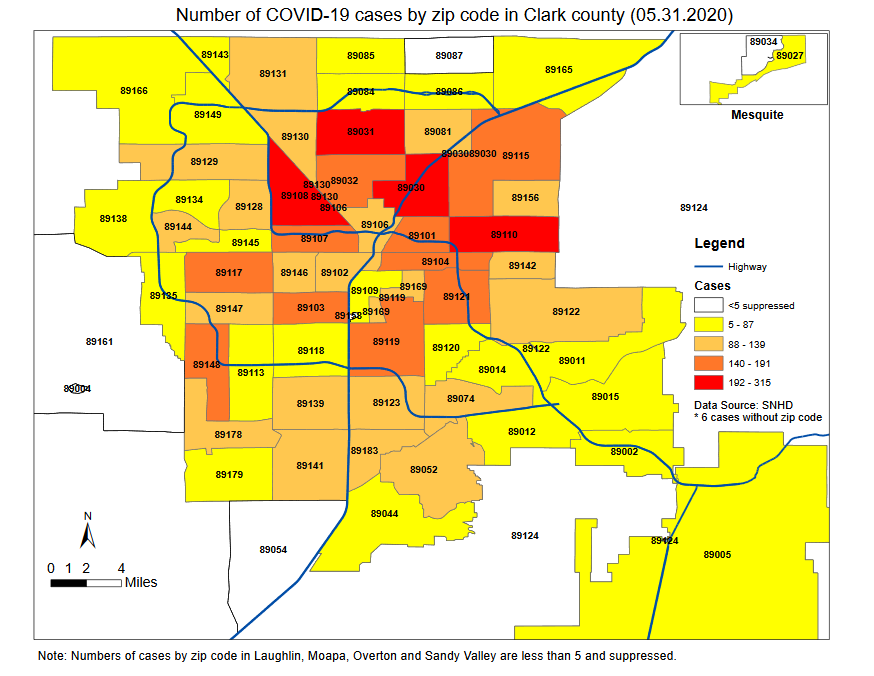
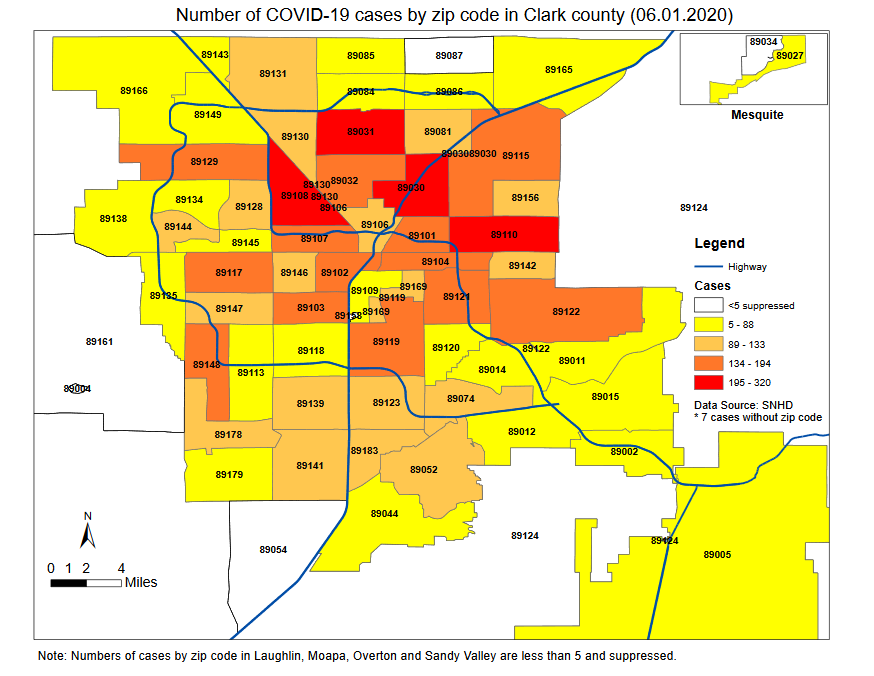
moa stats

diff --git a/src/pages/nevada.js b/src/pages/nevada.js
@@ -100,6 +100,7 @@ class NevadaPage extends Component {
 				'5/29/20',
 				'5/30/20',
 				'5/31/20',
+				'6/01/20',
 			],
 			datasets: [
 				{
@@ -194,6 +195,7 @@ class NevadaPage extends Component {
 						8495,
 						8593,
 						8688,
+						8830,
 					],
 					fill: false, // Don't fill area under the line
 					backgroundColor: '#933A16', // Line color
@@ -291,6 +293,7 @@ class NevadaPage extends Component {
 				'5/29/20',
 				'5/30/20',
 				'5/31/20',
+				'6/01/20',
 			],
 			datasets: [
 				{
@@ -390,6 +393,7 @@ class NevadaPage extends Component {
 						123,
 						119,
 						115,
+						124,
 					],
 				},
 				{
@@ -485,6 +489,7 @@ class NevadaPage extends Component {
 						145,
 						98,
 						95,
+						142,
 					],
 					fill: false, // Don't fill area under the line
 					backgroundColor: '#933A16', // Bar color
@@ -582,6 +587,7 @@ class NevadaPage extends Component {
 				'5/29/20',
 				'5/30/20',
 				'5/31/20',
+				'6/01/20',
 			],
 			datasets: [
 				{
@@ -659,23 +665,24 @@ class NevadaPage extends Component {
 						348,
 						354,
 						358,
-						367,
+						368,
 						369,
-						376,
-						383,
-						390,
-						392,
-						396,
-						399,
-						402,
-						407,
-						409,
-						411,
-						415,
-						419,
-						421,
-						421,
-						421,
+						375,
+						382,
+						389,
+						391,
+						395,
+						398,
+						401,
+						406,
+						408,
+						410,
+						413,
+						417,
+						420,
+						420,
+						420,
+						420,
 					],
 					backgroundColor: 'maroon',
 				},
@@ -761,6 +768,7 @@ class NevadaPage extends Component {
 				'5/29/20',
 				'5/30/20',
 				'5/31/20',
+				'6/01/20',
 			],
 			datasets: [
 				{
@@ -833,7 +841,7 @@ class NevadaPage extends Component {
 						5,
 						6,
 						6,
-						6,
+						5,
 						6,
 						6,
 						5,
@@ -848,6 +856,7 @@ class NevadaPage extends Component {
 						3,
 						2,
 						2,
+						1,
 					],
 				},
 				{
@@ -914,9 +923,9 @@ class NevadaPage extends Component {
 						7,
 						6,
 						4,
-						9,
-						2,
-						7,
+						10,
+						1,
+						6,
 						7,
 						7,
 						2,
@@ -926,9 +935,10 @@ class NevadaPage extends Component {
 						5,
 						2,
 						2,
+						3,
 						4,
-						4,
-						2,
+						3,
+						0,
 						0,
 						0,
 					],
@@ -1007,6 +1017,7 @@ class NevadaPage extends Component {
 				'5/29/20',
 				'5/30/20',
 				'5/31/20',
+				'6/01/20',
 			],
 			datasets: [
 				{
@@ -1084,6 +1095,7 @@ class NevadaPage extends Component {
 						6.1,
 						6.0,
 						5.9,
+						5.8,
 					],
 				},
 				{
@@ -1093,6 +1105,7 @@ class NevadaPage extends Component {
 					borderColor: '#933A16',
 					pointRadius: 1,
 					data: [
+						10.0,
 						10.0,
 						10.0,
 						10.0,
@@ -1240,6 +1253,7 @@ class NevadaPage extends Component {
 						5.0,
 						5.0,
 						5.0,
+						5.0,
 					],
 				},
 			],
@@ -1275,7 +1289,7 @@ class NevadaPage extends Component {
 										</div>
 									</div>
 									<div className="card-value pt-4">
-										<h1>146,688</h1>
+										<h1>151,966</h1>
 									</div>
 								</div>
 							</div>
@@ -1287,7 +1301,7 @@ class NevadaPage extends Component {
 										</div>
 									</div>
 									<div className="card-value pt-4">
-										<h1>138,095</h1>
+										<h1>143,261</h1>
 									</div>
 								</div>
 							</div>
@@ -1299,7 +1313,7 @@ class NevadaPage extends Component {
 										</div>
 									</div>
 									<div className="card-value pt-4">
-										<h1>8,688</h1>
+										<h1>8,830</h1>
 									</div>
 								</div>
 							</div>
@@ -1311,7 +1325,7 @@ class NevadaPage extends Component {
 										</div>
 									</div>
 									<div className="card-value pt-4">
-										<h1>421</h1>
+										<h1>420</h1>
 									</div>
 								</div>
 							</div>

diff --git a/src/pages/clarkcounty.js b/src/pages/clarkcounty.js
@@ -105,6 +105,7 @@ class ClarkPage extends Component {
 				'5/29/20',
 				'5/30/20',
 				'5/31/20',
+				'6/01/20',
 			],
 			datasets: [
 				{
@@ -200,6 +201,7 @@ class ClarkPage extends Component {
 						6579,
 						6657,
 						6719,
+						6845,
 					],
 				},
 			],
@@ -296,6 +298,7 @@ class ClarkPage extends Component {
 				'5/29/20',
 				'5/30/20',
 				'5/31/20',
+				'6/01/20',
 			],
 			datasets: [
 				{
@@ -395,6 +398,7 @@ class ClarkPage extends Component {
 						79,
 						86,
 						86,
+						99,
 					],
 				},
 				{
@@ -490,6 +494,7 @@ class ClarkPage extends Component {
 						122,
 						78,
 						62,
+						126,
 					],
 				},
 			],
@@ -566,6 +571,7 @@ class ClarkPage extends Component {
 				'5/29/20',
 				'5/30/20',
 				'5/31/20',
+				'6/01/20',
 			],
 			datasets: [
 				{
@@ -641,6 +647,7 @@ class ClarkPage extends Component {
 						1563,
 						1565,
 						1565,
+						1582,
 					],
 				},
 			],
@@ -716,6 +723,7 @@ class ClarkPage extends Component {
 				'5/29/20',
 				'5/30/20',
 				'5/31/20',
+				'6/01/20',
 			],
 			datasets: [
 				{
@@ -791,6 +799,7 @@ class ClarkPage extends Component {
 						10,
 						2,
 						0,
+						17,
 					],
 				},
 			],
@@ -887,6 +896,7 @@ class ClarkPage extends Component {
 				'5/29/20',
 				'5/30/20',
 				'5/31/20',
+				'6/01/20',
 			],
 			datasets: [
 				{
@@ -981,6 +991,7 @@ class ClarkPage extends Component {
 						340,
 						340,
 						343,
+						346,
 					],
 					backgroundColor: 'maroon',
 				},
@@ -1066,6 +1077,7 @@ class ClarkPage extends Component {
 				'5/29/20',
 				'5/30/20',
 				'5/31/20',
+				'6/01/20',
 			],
 			datasets: [
 				{
@@ -1153,6 +1165,7 @@ class ClarkPage extends Component {
 						2,
 						2,
 						2,
+						1,
 					],
 				},
 				{
@@ -1236,6 +1249,7 @@ class ClarkPage extends Component {
 						0,
 						0,
 						3,
+						3,
 					],
 				},
 			],
@@ -1246,7 +1260,7 @@ class ClarkPage extends Component {
 			datasets: [
 				{
 					label: 'Age of Cases',
-					data: [74, 251, 485, 2847, 1692, 1367],
+					data: [77, 262, 501, 2914, 1714, 1374],
 					backgroundColor: [
 						'rgb(54, 162, 235)', //blue
 						'rgb(255, 99, 132)', //salmon
@@ -1264,7 +1278,7 @@ class ClarkPage extends Component {
 			datasets: [
 				{
 					label: 'Sex',
-					data: [3429, 3200, 90],
+					data: [3501, 3251, 93],
 					backgroundColor: [
 						'rgb(255, 99, 132)',
 						'rgb(54, 162, 235)',
@@ -1306,7 +1320,7 @@ class ClarkPage extends Component {
 											</div>
 										</div>
 										<div className="card-value pt-4">
-											<h1>6,719</h1>
+											<h1>6,845</h1>
 										</div>
 									</div>
 								</div>
@@ -1318,7 +1332,7 @@ class ClarkPage extends Component {
 											</div>
 										</div>
 										<div className="card-value pt-4">
-											<h1>1,565</h1>
+											<h1>1,582</h1>
 										</div>
 									</div>
 								</div>
@@ -1330,7 +1344,7 @@ class ClarkPage extends Component {
 											</div>
 										</div>
 										<div className="card-value pt-4">
-											<h1>5,299</h1>
+											<h1>5,390</h1>
 										</div>
 									</div>
 								</div>
@@ -1342,7 +1356,7 @@ class ClarkPage extends Component {
 											</div>
 										</div>
 										<div className="card-value pt-4">
-											<h1>343</h1>
+											<h1>346</h1>
 										</div>
 									</div>
 								</div>
